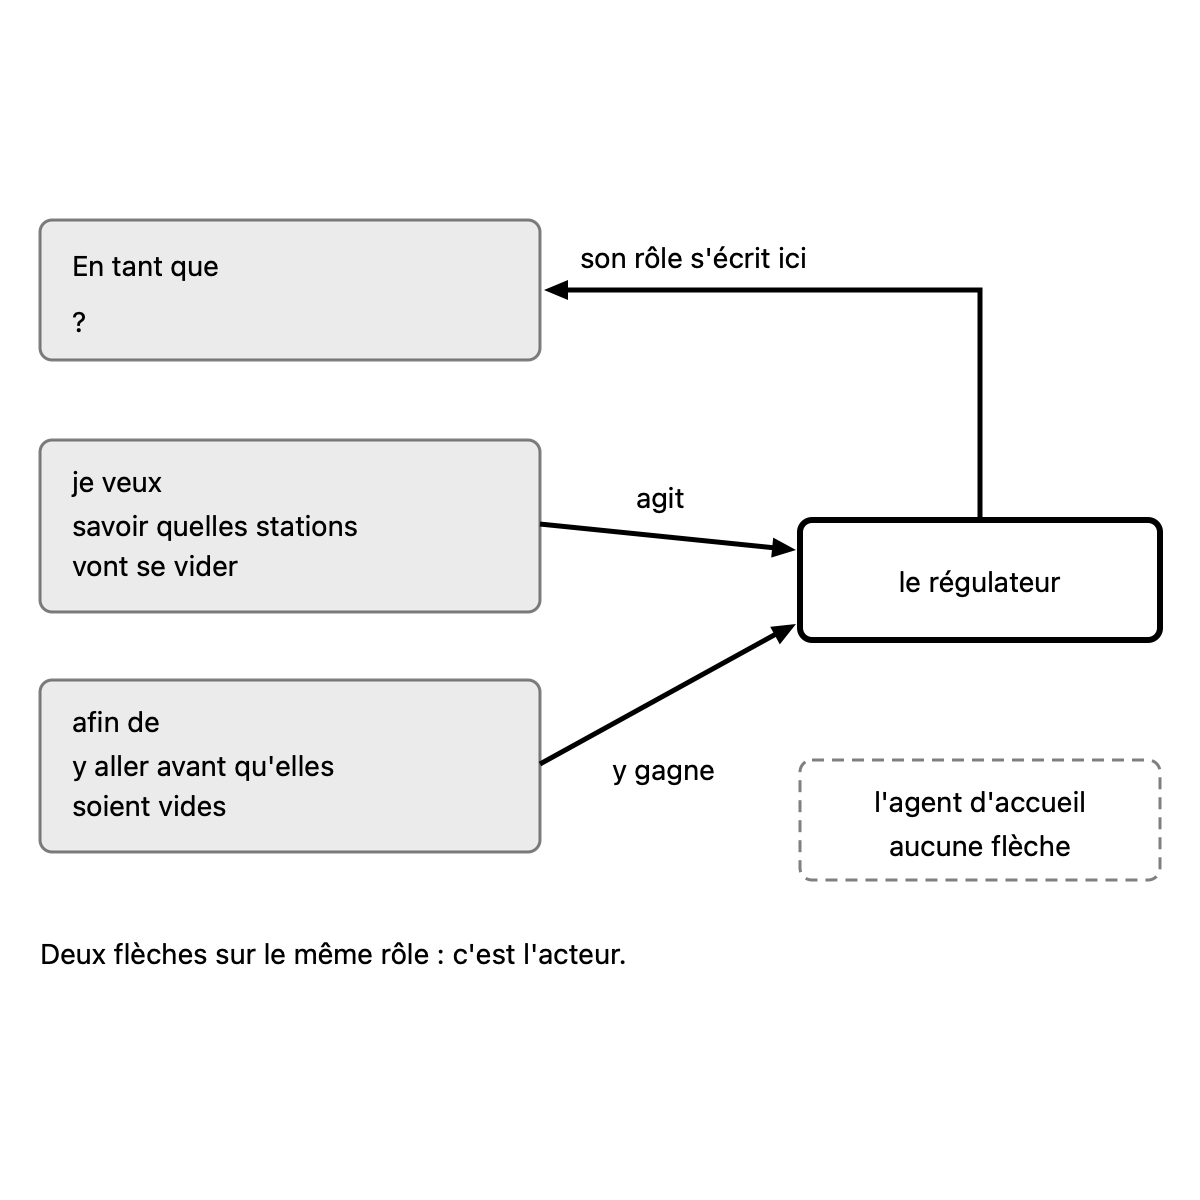
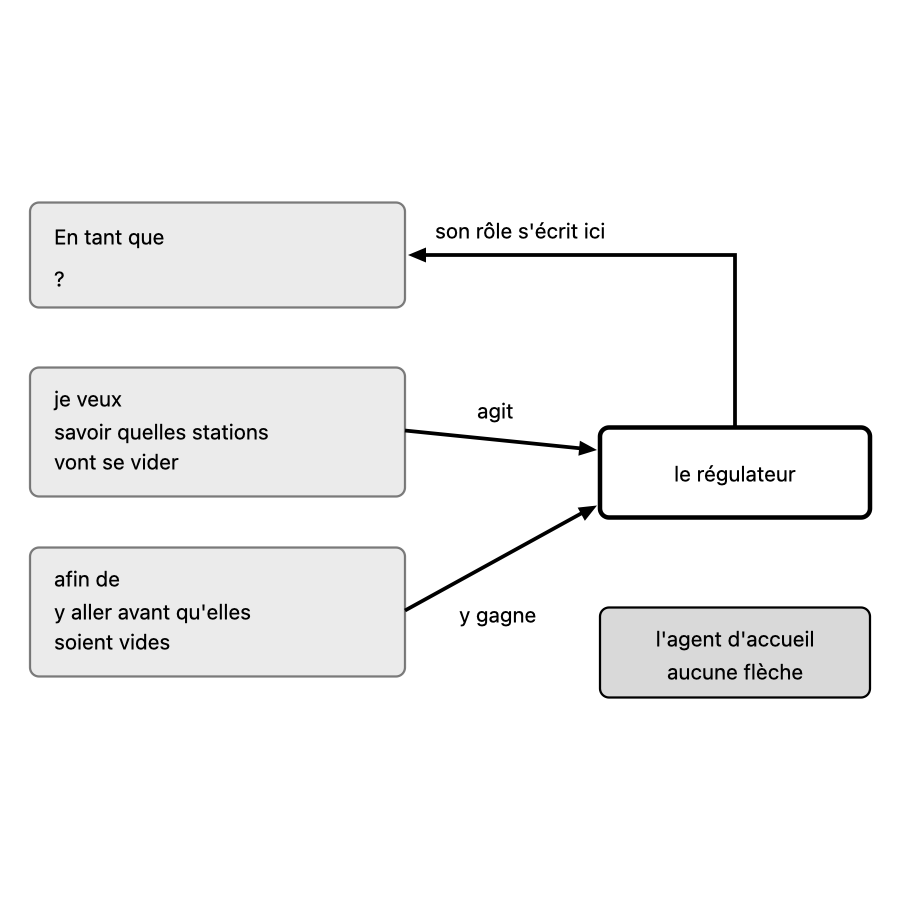
course(course:parcours-po): fix concept 6 after the fresh review
One-sentence caption, note group removed, contrast drawn as secondary, muted
arrow labels, sources paths and section names, two restored passages.

diff --git a/courses/parcours-po/concepts/06-roles-personas/concept.md b/courses/parcours-po/concepts/06-roles-personas/concept.md
@@ -28,7 +28,7 @@ neighbors:
 diagrams:
   - file: acteur-story.svg
     title: "Deux flèches vers l'acteur de la story"
-    caption: "L'acteur d'une story. La case « En tant que » est vide ; du « je veux » part une flèche vers celui qui agit, du « afin de » une flèche vers celui qui y gagne. Les deux arrivent sur le même rôle, qui s'écrit dans la case. Un autre rôle, l'agent d'accueil, n'a aucune flèche : il n'est pas l'acteur de cette story."
+    caption: "Du « je veux » et du « afin de », deux flèches arrivent sur le même rôle, le régulateur, qui s'écrit dans la case « En tant que » : c'est l'acteur ; l'agent d'accueil n'en reçoit aucune."
     subconcept: 6a
 ---
 
@@ -63,7 +63,7 @@ Dans la phrase, on écrit le rôle, jamais le prénom d'une personne : la story 
 
 *Un persona aide à se représenter un rôle, à condition de venir d'utilisateurs réels.*
 
-Un persona est un **portrait fictif et réaliste d'un rôle** : un prénom, des objectifs, des comportements. C'est un choix d'école [école] d'Alan Cooper, venu du design d'interaction, absent du Scrum Guide et discuté entre praticiens (on leur reproche des preuves surtout anecdotiques et un risque de stéréotype). Aucune équipe n'est obligée d'en avoir.
+Un persona est un **portrait fictif et réaliste d'un rôle** : un prénom, des objectifs, des comportements. C'est un choix d'école d'Alan Cooper [école], venu du design d'interaction, absent du Scrum Guide et discuté entre praticiens (on leur reproche des preuves surtout anecdotiques et un risque de stéréotype). Aucune équipe n'est obligée d'en avoir.
 
 Il se construit **à partir d'utilisateurs réels** interrogés, pas de l'imagination de l'équipe : le persona est fictif par son prénom, pas par ses traits. Chaque trait doit pouvoir répondre à la question « d'où vient-il ? ». Un portrait tiré des seules hypothèses de l'équipe (un proto-persona) n'en est pas un. C'est ce qui sépare un persona d'un utilisateur réel : on interroge un technicien en chair et en os ; un persona, lui, résume des utilisateurs réels.
 
@@ -73,7 +73,7 @@ Le persona sert à la **conversation** et aux **exemples** : il rend le rôle co
 
 - **Un rôle qui se contente de construire** : l'acteur agit et y gagne, il ne se limite pas à fabriquer le livrable. Un consommateur de données reste un utilisateur (choix du cours, concept 1).
 - **La valeur d'un autre rôle dans le « afin de »** (un responsable qui écrit « … afin que mes équipes gagnent du temps », exemple inventé) : le « afin de » dit le gain de l'acteur ; sinon, on change d'acteur ou on cherche sa propre raison (concept 5).
-- **Deviner l'acteur** : le PO le vérifie auprès des utilisateurs. Il ne choisit pas l'acteur sur le papier (qui fait l'action, qui y gagne).
+- **Deviner l'acteur** : le PO le vérifie auprès des utilisateurs (qui fait l'action, qui y gagne). Il ne choisit pas l'acteur sur le papier.
 - **Prendre celui qui demande pour l'acteur** : la demande vient souvent d'un responsable, le besoin est parfois celui de son équipe.
 - **« En tant qu'utilisateur » par défaut** : il fait manquer des stories quand les rôles ont des raisons différentes. Il suffit quand tous ont le même besoin pour la même raison.
 - **Un prénom à la place du rôle** (« en tant que Julie », exemple inventé) : la story sert un rôle ; la personne nommée est celle qu'on interroge.

diff --git a/courses/parcours-po/concepts/06-roles-personas/sources.md b/courses/parcours-po/concepts/06-roles-personas/sources.md
@@ -4,7 +4,7 @@ choix de l'acteur relève donc de recommandations d'auteur (rôles utilisateurs,
 « usage-centered design »), de choix du cours ou de choix d'école (personas, Cooper), pas du consensus Scrum. Les
 faits du fil rouge (Théo, Maud, Abba, tournée de réparation, un tiers des abonnés avec un
 téléphone basique) sont inventés : ils n'ont pas de source. Les sections entre parenthèses sont
-celles du modèle de fichier de concept.
+celles de `concept.md` ou de `teaching.md`.
 
 ## Affirmations
 
@@ -33,9 +33,9 @@ celles du modèle de fichier de concept.
 | Un persona est fictif par son identité, pas par ses traits : lui prêter un besoin qu'aucun utilisateur n'a exprimé, c'est inventer un utilisateur ; un utilisateur réel (Théo) n'est pas un persona (6b, banque « Abba, on lui fait dire ce qu'on veut ? », Pièges) | [S6], [S7] en partie | Déduit de la définition (« hypothetical archetypes », Cooper [S6] ; construit à partir d'entretiens ou d'enquêtes, Wikipédia [S7], qui distingue le « proto-persona » fait d'hypothèses de l'équipe). La formulation est celle du cours | école |
 | Le trait qu'Anna veut ajouter (« une disponibilité vieille d'une heure ») : demander d'où vient chaque trait, le vérifier auprès d'abonnés sans l'appli (banque « Le trait qu'Anna veut ajouter », ajoutée après le test du lot) | [S7] en partie | Même appui que la ligne précédente (persona construit à partir d'entretiens ou d'enquêtes). Le trait est une proposition d'exercice, pas un fait du fil rouge ; la fraîcheur visée (moins de 15 minutes) est un fait fixé du fil rouge | école |
 | Une story peut garder un rôle (« en tant qu'abonné ») même quand l'équipe a un persona (6b, renvoi aux concepts 7 et 8) | aucune | Choix du cours : le persona aide à se représenter le rôle ; il ne remplace pas le rôle dans la phrase. Écrire la story au nom du persona (« En tant qu'Abba… ») est une pratique répandue que Cohn décrirait dans son livre (non lu) : voir « Non vérifié » | cours |
-| Les consommateurs de données sont des utilisateurs (renvoi au concept 1) | sources 01 [S2] | Dehghani, déjà vérifié au concept 1 ; choix du cours appuyé sur un choix d'école, à nommer comme tel | cours |
-| Les trois parties de la story, les 3C, la solution hors du « je veux », le chiffre précis hors de la phrase (renvoi au concept 5) | sources 05 | Cohn, Jeffries, déjà vérifiés au concept 5 |  |
-| Un « je veux » par story (renvoi au concept 4) | sources 04 | Déjà traité au concept 4 |  |
+| Les consommateurs de données sont des utilisateurs (Pièges) | `concepts/01-produit-et-po/sources.md` [S2] | Dehghani, déjà vérifié au concept 1 ; choix du cours appuyé sur un choix d'école, à nommer comme tel | cours |
+| Les trois parties de la story, les 3C, la solution hors du « je veux », le chiffre précis hors de la phrase (Pièges) | `concepts/05-user-story/sources.md` | Cohn, Jeffries, déjà vérifiés au concept 5 |  |
+| Un « je veux » par story (6a) | `concepts/04-hierarchie/sources.md` | Déjà traité au concept 4 |  |
 ## Références
 
 | Réf. | Source (auteur, titre, date) | Lien | Type | Consultée le |

diff --git a/construction/notes/S1-10-06-report.md b/construction/notes/S1-10-06-report.md
@@ -7,11 +7,11 @@ Old files: `parcours-po/course/concepts/06-roles-personas.md` (CF), `parcours-po
 
 | checks | target existed | old diagrams | new diagrams | captions of more than one sentence |
 |---|---|---|---|---|
-| pass | no | 1 | 1 | 1 |
+| pass | no | 1 | 1 | 0 |
 
 Result: **passed**. checks is read in code from the output below, which the check agent returns; target existed is read in code from the listing below, which the scope agent returns. The new concept is not compared with the old one (rule D on #23): the fresh-agent review judges it against SPEC.md and PROTOCOL.md.
 
-Captions of more than one sentence (SPEC.md 7.2, principle 1: a caption that needs two sentences means two diagrams): acteur-story.svg (4 sentences). Flagged for the review, not refused.
+Captions of more than one sentence: none (the review's fix: the caption is now one sentence).
 
 ## Target before the run
 
@@ -41,7 +41,7 @@ Its sentences, where the inventory sends them (M11):
 #### acteur-story.svg
 
 - Title: Deux flèches vers l'acteur de la story
-- Caption: L'acteur d'une story. La case « En tant que » est vide ; du « je veux » part une flèche vers celui qui agit, du « afin de » une flèche vers celui qui y gagne. Les deux arrivent sur le même rôle, qui s'écrit dans la case. Un autre rôle, l'agent d'accueil, n'a aucune flèche : il n'est pas l'acteur de cette story. (**4 sentences**: SPEC.md 7.2, principle 1)
+- Caption: Du « je veux » et du « afin de », deux flèches arrivent sur le même rôle, le régulateur, qui s'écrit dans la case « En tant que » : c'est l'acteur ; l'agent d'accueil n'en reçoit aucune.
 - Sub-concept: 6a
 - Idea: « Les deux arrivent sur le même rôle, qui s'écrit dans la case. » (MDX « L'essentiel » (Figure legende))
 
@@ -52,7 +52,6 @@ Its sentences, where the inventory sends them (M11):
 | E3 | le bloc « afin de » de la phrase de la story, qui dit le gain | « afin de », « y aller avant qu'elles soient vides » | context | none |
 | E4 | le rôle qui fait l'action du « je veux » et y gagne ce que dit le « afin de » : l'acteur de la story | « le régulateur » | subject | none |
 | E5 | un autre rôle, qui n'a aucune flèche et n'est pas l'acteur de cette story | « l'agent d'accueil », « aucune flèche » | contrast | none |
-| E6 | la note qui donne la règle de lecture : deux flèches sur le même rôle désignent l'acteur | « Deux flèches sur le même rôle : c'est l'acteur. » | text | none |
 
 Relations:
 - E2 vers E4 : une flèche, celui qui agit, légendée « agit »
